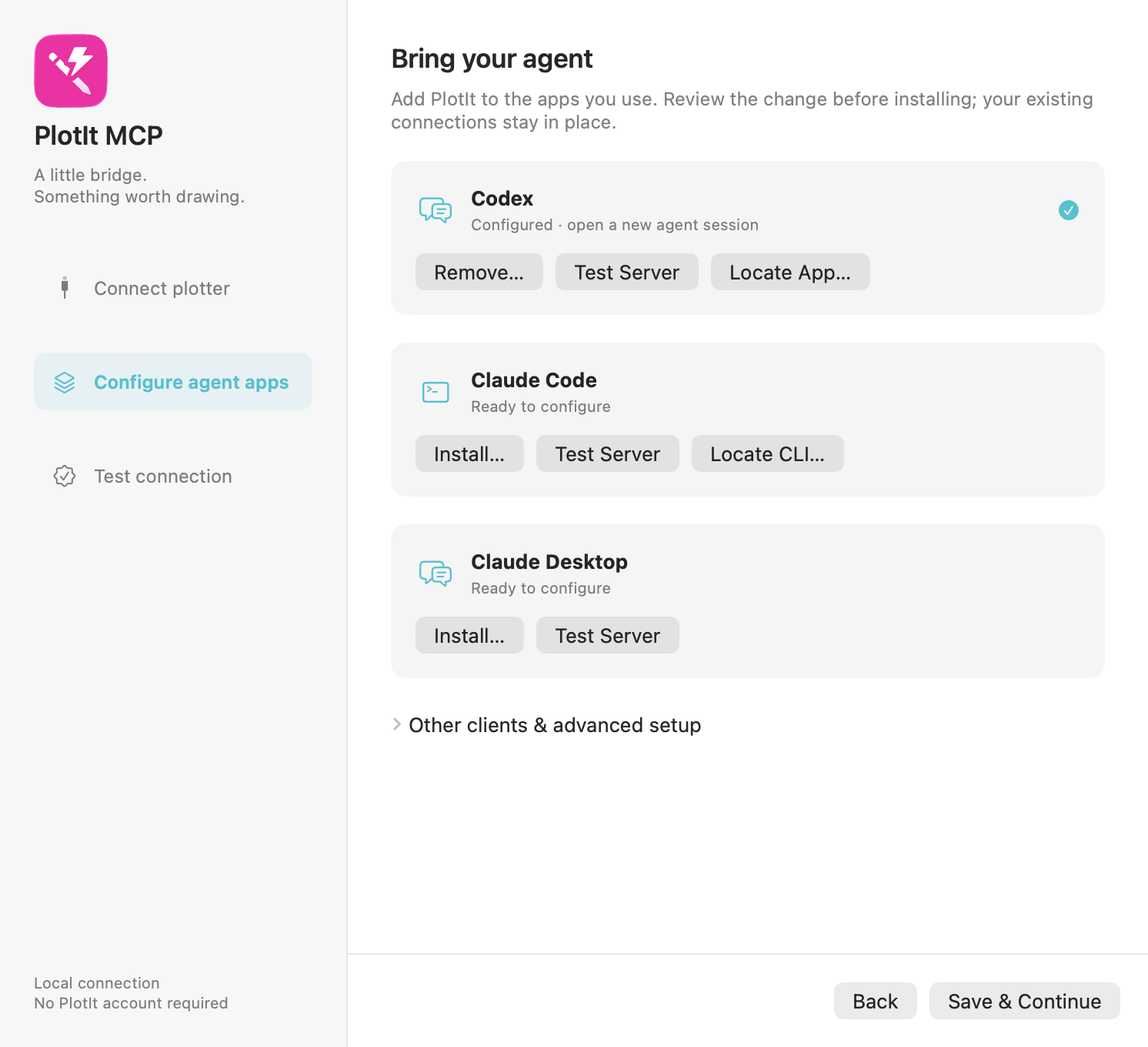
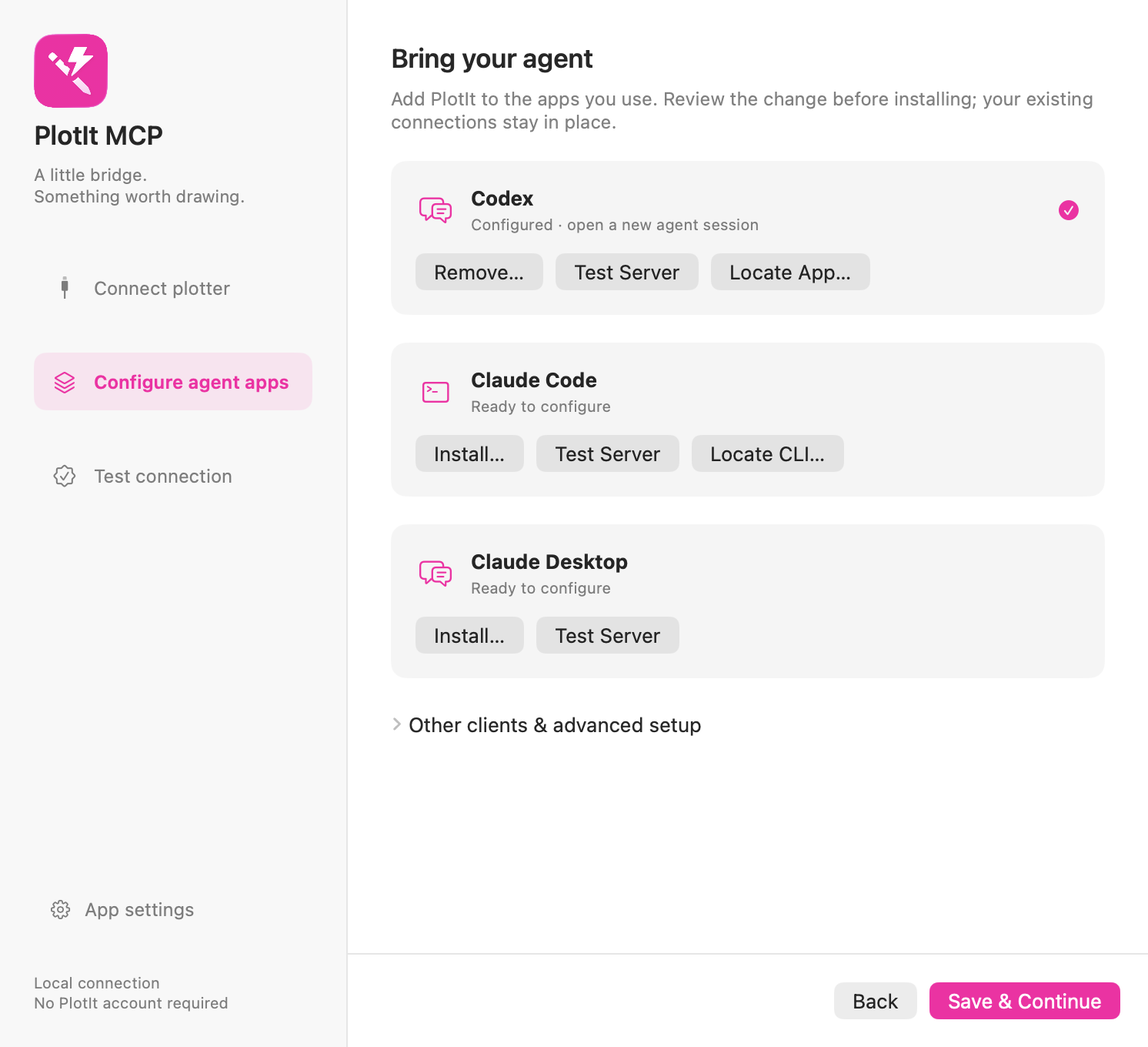
Refresh Mac screenshots and use native menu window corners

diff --git a/site/macos/index.html b/site/macos/index.html
@@ -9,8 +9,11 @@
 <div class="actions"><a id="mac-checksums" class="text-link" href="https://github.com/thierryc/Plot-It/releases/download/plotit-mcp-v0.1.0-alpha.1/SHA256SUMS.txt">Verify download checksums</a><a id="mac-notes" class="text-link" href="https://github.com/thierryc/Plot-It/releases/tag/plotit-mcp-v0.1.0-alpha.1">Release notes</a></div>
 <section aria-labelledby="mac-tour"><h2 id="mac-tour">Set it up here.<br>Follow it in the conversation.</h2><p>Choose your paper and pen settings in the Mac app, then let your agent help prepare the drawing. A live card keeps the preview, progress and controls together.</p>
 <div class="mac-showcase">
-<figure class="mac-shot"><div class="mac-shot-frame"><a href="%BASE_URL%macos/media/mac-setup.png" aria-label="Open the Mac setup screenshot at full size"><img src="%BASE_URL%macos/media/mac-setup.png" width="746" height="680" loading="lazy" alt="PlotIt MCP Mac setup window with machine and USB selection, an A4 paper format menu, orientation diagram and pen height controls"></a></div><figcaption><strong>A familiar Mac setup.</strong>Paper presets, custom dimensions and pen calibration. Native app capture with example settings; no plotter is connected.</figcaption></figure>
-<figure class="mac-shot"><div class="mac-shot-frame"><a href="%BASE_URL%macos/media/plot-progress.png" aria-label="Open the progress card screenshot at full size"><img src="%BASE_URL%macos/media/plot-progress.png" width="520" height="513" loading="lazy" alt="PlotIt progress card showing a drawing preview, 38 percent estimated progress, elapsed and remaining time, and Pause and Stop controls"></a></div><figcaption><strong>One card that stays up to date.</strong>Actual progress-card UI with simulated drawing data. Interactive cards depend on your agent client's MCP Apps support; tools and PNG previews remain available without them.</figcaption></figure>
+<figure class="mac-shot"><div class="mac-shot-frame"><a href="%BASE_URL%macos/media/mac-setup.png?v=11" aria-label="Open the Mac setup screenshot at full size"><img src="%BASE_URL%macos/media/mac-setup.png?v=11" width="746" height="680" loading="lazy" alt="Current PlotIt Mac setup with paper presets, pen heights, Advanced calibration and App settings in the sidebar"></a></div><figcaption><strong>Set up your plotter.</strong>Choose paper, calibrate the pen and connect. Native view with example settings; no plotter is connected.</figcaption></figure>
+<figure class="mac-shot" id="app-settings"><div class="mac-shot-frame"><a href="%BASE_URL%macos/media/app-settings.png" aria-label="Open the App settings screenshot at full size"><img src="%BASE_URL%macos/media/app-settings.png" width="746" height="680" loading="lazy" alt="PlotIt App settings with Check for Updates and the Automatic updates switch turned on"></a></div><figcaption><strong>Updates, on your terms.</strong>Automatic updates are on by default. Turn them off in Settings… → App settings; manual checks remain available.</figcaption></figure>
+<figure class="mac-shot mac-shot-menu" id="connection-menu"><div class="mac-shot-frame"><a href="%BASE_URL%macos/media/connection-menu.png" aria-label="Open the connected menu screenshot at full size"><img src="%BASE_URL%macos/media/connection-menu.png" width="336" height="310" loading="lazy" alt="PlotIt connection menu with the lightning pen icon, Disconnect control, completed drawing preview, Settings and compact More menu"></a></div><figcaption><strong>One connection control.</strong>Connect or disconnect from the menu bar. The lightning symbol appears while connected. Native view with example connection and drawing states.
+<details class="mac-menu-alternative"><summary>See the disconnected state</summary><a href="%BASE_URL%macos/media/connection-menu-disconnected.png" aria-label="Open the disconnected menu screenshot at full size"><img src="%BASE_URL%macos/media/connection-menu-disconnected.png" width="336" height="310" loading="lazy" alt="Disconnected PlotIt menu with a whole pen icon without lightning and a Connect control"></a></details></figcaption></figure>
+<figure class="mac-shot"><div class="mac-shot-frame"><a href="%BASE_URL%macos/media/plot-progress.png" aria-label="Open the progress card screenshot at full size"><img src="%BASE_URL%macos/media/plot-progress.png" width="520" height="513" loading="lazy" alt="PlotIt progress card showing a drawing preview, 38 percent estimated progress, elapsed and remaining time, and Pause and Stop controls"></a></div><figcaption><strong>Follow the drawing in your chat.</strong>Actual progress-card UI with simulated drawing data. Interactive cards depend on your agent client's MCP Apps support.</figcaption></figure>
 </div></section>
 <section id="connect"><h2>Connect the agent you use.</h2><p>Install PlotIt MCP in Applications and keep it open. In its menu bar, choose <strong>Set Up… → Configure agent apps</strong>. Choose your client below; you can prepare and simulate drawings before connecting a plotter.</p>
 <div class="agent-guides">
@@ -22,7 +25,7 @@
 <h3>Try your first prompt.</h3><blockquote class="agent-prompt"><p>Use PlotIt to check my setup, list the stroke fonts, and prepare a small hello-world drawing. Show me the preview and simulate it before starting. When I ask you to plot, show the live progress card.</p></blockquote>
 <p class="fine">Ask the agent to show PlotIt's setup card if you want help with configuration. Secure the paper and physically position the carriage before confirming the origin. A connection or a completed simulation never starts a physical drawing.</p></section>
 <section><h2>Your agent. Your plotter. This Mac.</h2><p>PlotIt MCP is a native macOS 14+ menu-bar app with its own bundled runtime. It does not require a separate Node installation or a PlotIt account. The universal download runs on Apple Silicon and Intel Macs, is Developer ID signed, and is notarized by Apple. Open the DMG, drag PlotIt MCP to Applications, then open the app to set up your plotter.</p><p>Choose your machine, paper preset or custom size, pen heights and USB device in the native app or an interactive setup card. The agent can help configure and connect your plotter when requested.</p></section>
-<section><h2>See what is happening.</h2><p>A live conversation card shows the full drawing preview, estimated progress, elapsed and remaining time, and Pause, Resume and Stop controls. Pen changes show clear instructions. Clients that do not support interactive MCP Apps retain useful tools, text and PNG previews.</p><p>Agent control becomes available when the connected plotter has an established origin and the Mac companion is present. Turn it Off at any time to block new starts and agent resumes. Becoming ready never starts a drawing.</p></section>
+<section><h2>See what is happening.</h2><p>A live conversation card shows the full drawing preview, estimated progress, elapsed and remaining time, and Pause, Resume and Stop controls. Pen changes show clear instructions. Clients that do not support interactive MCP Apps retain useful tools, text and PNG previews.</p><p>Agent control becomes available when the connected plotter has an established origin and the Mac companion is present. Disconnect from the menu to release the plotter when work has settled. Becoming ready never starts a drawing.</p></section>
 <section><h2>Keep the editor you already use.</h2><p>The browser editor remains available without installing the Mac app. Use it to edit and simulate drawings, then exchange SVG files with the companion workflow. These are separate workspaces; installing or removing the Mac app does not alter the web app.</p><div class="actions"><a class="button" href="%BASE_URL%app/">Open the web editor</a><a class="text-link" href="%BASE_URL%docs/macos/">Install, connect and recover →</a></div></section>
 <section><h2>An experimental first release.</h2><p>Hardware profiles require testing on the actual machine. Simulation does not establish AxiDraw, NextDraw or other plotter compatibility. Start with a small preview and pen calibration. Carriage positioning, securing paper and loading pens remain physical tasks.</p><p>Storage is local. Your chosen agent receives the tool results and previews you request under that agent's own privacy policy. The current integration uses local clients; a remote ChatGPT web bridge is not included.</p></section>
 </div><script type="module" src="macos.ts"></script></main><footer data-site-footer>

diff --git a/site/docs/macos/index.html b/site/docs/macos/index.html
@@ -5,7 +5,7 @@
 <section id="install"><h2>Install the Mac app</h2><p>Download the signed and notarized Universal alpha from the <a href="%BASE_URL%macos/">Mac companion page</a>. The same download runs on Apple Silicon and Intel Macs with macOS 14 or later. Open the DMG and drag PlotIt MCP.app into Applications before configuring agents.</p><p>Open the app and find its menu-bar icon. Development packages are ad-hoc signed and are distinct from the signed, notarized public release. Verify a public download against its SHA-256 checksum. Keep normal macOS security protections enabled.</p></section>
 <section id="setup"><h2>Set up the plotter</h2><ol><li>Open Set Up. Choose the machine, USB device, paper format and pen heights. Custom dimensions are in millimetres. Save &amp; Continue preserves changes.</li><li>Connect the plotter. Test pen up/down using the saved heights. Position the carriage at the intended drawing origin and secure the paper, then capture the current position as origin.</li><li>Configure your agent app through the reviewed installation action. Start a new agent session; restart Claude Desktop if needed. Run the server test and copy the first prompt.</li></ol><p>You can also ask the agent to open PlotIt's setup card. It uses the same saved settings and hardware operations. Capturing origin never homes the machine, and the agent must not infer physical placement from an image. Setup controls are unavailable during an active plot.</p><p>Use Connect / Disconnect to control the connection. The toolbar icon gains a lightning bolt when connected. Saved configuration, an established physical origin and the native app open are required before drawing; there is no separate agent-permission switch.</p></section>
 <section id="agents"><h2>Connect your agent</h2><p>Keep PlotIt MCP open on the same Mac as your agent. From the menu bar choose <strong>Set Up…</strong>, then <strong>Configure agent apps</strong>. Each <strong>Install…</strong> action shows the destination and launch command for review. Existing files are backed up, and a conflicting PlotIt entry requires an explicit replacement.</p>
-<figure class="mac-shot"><div class="mac-shot-frame"><a href="%BASE_URL%macos/media/agent-connections.png" aria-label="Open the agent connections screenshot at full size"><img src="%BASE_URL%macos/media/agent-connections.png" width="746" height="680" loading="lazy" alt="Configure agent apps in PlotIt MCP, with separate Codex, Claude Code and Claude Desktop rows and Install and Test Server actions"></a></div><figcaption>The native connection screen, rendered with example configuration states. “Configured” means an entry is saved; “Agent connected” means a client has loaded the server.</figcaption></figure>
+<figure class="mac-shot"><div class="mac-shot-frame"><a href="%BASE_URL%macos/media/agent-connections.png?v=11" aria-label="Open the agent connections screenshot at full size"><img src="%BASE_URL%macos/media/agent-connections.png?v=11" width="746" height="680" loading="lazy" alt="Configure agent apps in PlotIt MCP, with separate Codex, Claude Code and Claude Desktop rows and Install and Test Server actions"></a></div><figcaption>The native connection screen, rendered with example configuration states. “Configured” means an entry is saved; “Agent connected” means a client has loaded the server.</figcaption></figure>
 <p>After installing a connection, choose <strong>Test connection → Run Server Test</strong>. A successful test confirms MCP initialization and tool discovery. To check the agent itself, start a fresh client session and use the first prompt below. No USB connection is needed to prepare artwork or run a simulation.</p></section>
 <section id="codex"><h2>Connect Codex</h2><ol><li>In PlotIt's <strong>Configure agent apps</strong> step, choose <strong>Install…</strong> beside <strong>Codex</strong>. Review and confirm the change.</li><li>If Codex isn't detected, choose <strong>Locate App…</strong> and select your local Codex app or executable. For a custom configuration location, expand <strong>Other clients &amp; advanced setup → Choose Codex Configuration Folder…</strong>.</li><li>Start a new local Codex chat or CLI session. Keep PlotIt MCP open, then paste the first prompt below.</li><li>Check <strong>Agent connected</strong> in PlotIt. In the Codex CLI, <code>/mcp</code> shows active servers; <code>codex mcp list</code> lists saved connections.</li></ol>
 <details class="manual-setup"><summary>Manual Codex configuration</summary><p>Use this instead of the app's Install action. Add one PlotIt table to <code>~/.codex/config.toml</code>, or the <code>config.toml</code> in your chosen <code>CODEX_HOME</code>. Keep your existing configuration and avoid duplicate PlotIt tables.</p><pre><code>[mcp_servers.plotit]

diff --git a/macos/Tests/PlotItAppTests/UISnapshotTests.swift b/macos/Tests/PlotItAppTests/UISnapshotTests.swift
@@ -7,6 +7,7 @@ final class UISnapshotTests: XCTestCase {
     @MainActor
     func testNativeViewsRenderAtTheirSupportedSizes() throws {
         _ = NSApplication.shared
+        if ProcessInfo.processInfo.environment["PLOTIT_ACTIVE_CAPTURES"] == "1" { NSApp.setActivationPolicy(.regular) }
         let model = CompanionModel(); model.isPreview = true; model.serviceAvailable = true
         model.status = CompanionStatus(version: "0.1.0", configured: false, config: Machine(), armed: false, agents: [], preparing: false)
         model.status?.paperPresets = [PaperPreset(name: "A4 portrait", width: 210, height: 297), PaperPreset(name: "US Letter portrait", width: 215.9, height: 279.4)]
@@ -17,10 +18,10 @@ final class UISnapshotTests: XCTestCase {
             AgentInstallation(id: "claude-desktop", path: "~/Library/Application Support/Claude/claude_desktop_config.json", configured: false)
         ]
         model.entry = ServerEntry(command: "/Applications/PlotIt MCP.app/Contents/MacOS/plotit-mcp", args: [])
-        for step in 0...2 {
-            try capture(SetupWindow(model: model, initialStep: step), name: "setup-\(step)", size: NSSize(width: 746, height: 680))
-        }
         let updater = AppUpdater(model: model)
+        for step in 0...2 {
+            try capture(SetupWindow(model: model, updater: updater, initialStep: step), name: "setup-\(step)", size: NSSize(width: 746, height: 680))
+        }
         try capture(SetupWindow(model: model, updater: updater, initialStep: 3), name: "app-settings", size: NSSize(width: 746, height: 680))
         try capture(MenuPanel(model: model), name: "menu", size: NSSize(width: 336, height: 0))
         model.status?.config.widthMm = 222
@@ -43,13 +44,34 @@ final class UISnapshotTests: XCTestCase {
     }
     @MainActor
     private func capture<Content: View>(_ content: Content, name: String, size: NSSize, colorScheme: ColorScheme = .light) throws {
-        let view = NSHostingView(rootView: content.environment(\.colorScheme, colorScheme).background(colorScheme == .dark ? Color.black : Color.white))
+        let screenCapture = ProcessInfo.processInfo.environment["PLOTIT_SCREENSHOT_HELPER"] != nil
+        let view = NSHostingView(rootView: content.environment(\.colorScheme, colorScheme)
+            .transformEnvironment(\.controlActiveState) { if screenCapture { $0 = .active } }
+            .background(colorScheme == .dark ? Color.black : Color.white))
         let size = NSSize(width: size.width, height: size.height == 0 ? ceil(view.fittingSize.height) : size.height)
-        let window = NSWindow(contentRect: NSRect(origin: .zero, size: size), styleMask: [.borderless], backing: .buffered, defer: false)
+        let window = CaptureWindow(contentRect: NSRect(origin: .zero, size: size), styleMask: [.borderless], backing: .buffered, defer: false)
         window.isReleasedWhenClosed = false
         window.appearance = NSAppearance(named: colorScheme == .dark ? .darkAqua : .aqua)
         window.contentView = view; view.frame = NSRect(origin: .zero, size: size)
+        if ProcessInfo.processInfo.environment["PLOTIT_ACTIVE_CAPTURES"] == "1" {
+            window.makeKeyAndOrderFront(nil)
+            NSApp.activate(ignoringOtherApps: true)
+            RunLoop.main.run(until: Date().addingTimeInterval(0.2))
+        }
         view.layoutSubtreeIfNeeded(); view.displayIfNeeded()
+        if let helper = ProcessInfo.processInfo.environment["PLOTIT_SCREENSHOT_HELPER"],
+           let path = ProcessInfo.processInfo.environment["PLOTIT_CAPTURE_DIR"] {
+            try FileManager.default.createDirectory(atPath: path, withIntermediateDirectories: true)
+            let destination = URL(fileURLWithPath: path).appendingPathComponent("\(name).png")
+            let process = Process()
+            process.executableURL = URL(fileURLWithPath: "/usr/bin/python3")
+            process.arguments = [helper, "--window-id", String(window.windowNumber), "--path", destination.path]
+            try process.run(); process.waitUntilExit()
+            XCTAssertEqual(process.terminationStatus, 0)
+            XCTAssertGreaterThan(try Data(contentsOf: destination).count, 1000)
+            window.close()
+            return
+        }
         guard let bitmap = view.bitmapImageRepForCachingDisplay(in: view.bounds) else { return XCTFail("Cannot render \(name)") }
         view.cacheDisplay(in: view.bounds, to: bitmap)
         let flattened = NSImage(size: size)
@@ -67,4 +89,9 @@ final class UISnapshotTests: XCTestCase {
         }
         window.close()
     }
+}
+
+private final class CaptureWindow: NSWindow {
+    override var canBecomeKey: Bool { true }
+    override var canBecomeMain: Bool { true }
 }

diff --git a/macos/Sources/PlotItApp/AppUpdater.swift b/macos/Sources/PlotItApp/AppUpdater.swift
@@ -20,6 +20,7 @@ final class AppUpdater: NSObject, SPUUpdaterDelegate, @preconcurrency SPUStandar
     var automaticUpdates: Bool { automaticChecks }
     var installationRequested = false
     var enabled: Bool { controller != nil }
+    var isPreview: Bool { model.isPreview }
     var blocker: String? { model.updateBlocker }
 
     init(model: CompanionModel) { self.model = model; super.init() }
@@ -111,13 +112,13 @@ struct UpdateControls: View {
         VStack(alignment: .leading, spacing: 10) {
             if let version = updater.readyVersion { Text("Update available · \(version)").font(.subheadline.weight(.medium)) }
             Button(updater.readyVersion == nil ? "Check for Updates…" : "Review Update & Restart…") { updater.check() }
-                .disabled(!updater.enabled || (!updater.canCheck && !updater.installationRequested))
+                .disabled(!updater.isPreview && (!updater.enabled || (!updater.canCheck && !updater.installationRequested)))
             if let message = updater.message { Text(message).font(.caption).foregroundStyle(.secondary) }
             if updater.readyVersion != nil, let blocker = updater.blocker { Text(blocker).font(.caption).foregroundStyle(.secondary) }
             Toggle("Automatic updates", isOn: Binding(get: { updater.automaticUpdates }, set: updater.setAutomaticUpdates))
                 .toggleStyle(.switch)
             Text(updater.automaticUpdates ? "Checks daily for signed GitHub releases. Updates wait for drawing, calibration and unsaved settings." : "Automatic checks and downloads are off. You can still check for updates above.")
                 .font(.caption).foregroundStyle(.secondary)
-        }.disabled(!updater.enabled)
+        }.disabled(!updater.enabled && !updater.isPreview)
     }
 }

diff --git a/site/styles.css b/site/styles.css
@@ -87,10 +87,14 @@ figcaption { font:11px ui-monospace,monospace; color:var(--quiet); text-align:ce
 .mac-app-identity { display:flex; align-items:center; gap:22px; margin-bottom:28px; }
 .mac-app-identity img { display:block; width:88px; height:88px; flex:none; }
 .mac-app-identity .eyebrow { margin:0; max-width:270px; line-height:1.8; }
-.mac-showcase { display:grid; grid-template-columns:minmax(0,1.35fr) minmax(0,1fr); gap:28px; align-items:start; margin:34px 0; }
+.mac-showcase { display:grid; grid-template-columns:repeat(2,minmax(0,1fr)); gap:36px 28px; align-items:start; margin:34px 0; }
 .mac-shot { margin:0; min-width:0; }
 .mac-shot-frame { padding:16px; border:1px solid var(--line); border-radius:16px; background:var(--code-background); }
 .mac-shot img { display:block; width:100%; height:auto; border-radius:8px; border:1px solid #e4e6e5; background:#fff; }
+.mac-shot-menu .mac-shot-frame > a { display:block; max-width:336px; margin-inline:auto; }
+.mac-menu-alternative { margin-top:12px; }
+.mac-menu-alternative summary { cursor:pointer; color:var(--ink); font-size:14px; }
+.mac-menu-alternative img { max-width:336px; margin-top:12px; }
 .mac-shot figcaption { font-family:inherit; font-size:12px; line-height:1.7; text-align:left; margin:14px 2px 0; }
 .mac-shot figcaption strong { display:block; color:var(--ink); font-size:14px; font-weight:550; margin-bottom:4px; }
 .agent-guides { display:grid; grid-template-columns:repeat(3,minmax(0,1fr)); gap:28px; margin:30px 0; }

diff --git a/macos/Sources/PlotItApp/MenuPanel.swift b/macos/Sources/PlotItApp/MenuPanel.swift
@@ -51,9 +51,6 @@ struct MenuPanel: View {
                 }.controlSize(.regular)
             }.padding(18).frame(width: 336)
         }
-        .background(.regularMaterial, in: .rect(cornerRadius: 20))
-        .clipShape(.rect(cornerRadius: 20))
-        .modifier(MenuPanelWindowBackground())
     }
 
     private func showSetup() {
@@ -93,13 +90,6 @@ struct MenuPanelMoreButton: View {
         .frame(width: 32, height: 32)
         .accessibilityLabel("More")
         .help("About, updates and Quit")
-    }
-}
-
-private struct MenuPanelWindowBackground: ViewModifier {
-    func body(content: Content) -> some View {
-        if #available(macOS 15, *) { content.containerBackground(.clear, for: .window) }
-        else { content }
     }
 }
 

diff --git a/site/macos/media/README.md b/site/macos/media/README.md
@@ -1,11 +1,13 @@
 # Mac website imagery
 
-The four public images live in `public/macos/media/`. HTML uses `%BASE_URL%macos/media/` for both image sources and full-size links, so they share stable URLs in the production build.
+The public images live in `public/macos/media/`. HTML uses `%BASE_URL%macos/media/` for both image sources and full-size links, so they share stable URLs in the production build.
 
 - `app-icon.png`: the designer-supplied 512-pixel magenta Plot-It icon, shared with `macos/Sources/PlotItApp/Resources/PlotItAppIcon.png` and `public/icon.png`. The source glyph's subtraction masks are already resolved in the native icon assets; do not replace this with a raw Glyphs SVG export.
 - `mac-setup.png` and `agent-connections.png`: native SwiftUI views rendered by `UISnapshotTests`, using the app's preview model and example configuration. The capture does not start a service, connect USB, or change an agent's configuration.
+- `connection-menu.png` and `connection-menu-disconnected.png`: current connection-menu content with example completed-job and connected/disconnected states, including the connection-aware pen symbols and compact More button. The native MenuBarExtra window supplies the real app’s material and corner clipping; these content captures are framed by the website.
+- `app-settings.png`: App settings with Automatic updates on. Preview controls display normally but no updater is started and no update preferences are written.
 - `plot-progress.png`: the bundled MCP Apps progress card captured inside `scripts/preview-plot-progress.mjs`, using simulated drawing data. This is a component preview, not an assertion that a particular agent client renders cards or that a physical plot has completed.
 
-Native captures can be regenerated with `PLOTIT_CAPTURE_DIR=/tmp/plotit-site-media swift test --package-path macos --filter UISnapshotTests`. Copy `setup-0.png` and `setup-1.png` to the names above. The website captions disclose example/simulated data. Retain readable controls, alt text, and the original aspect ratios.
+Native captures can be regenerated with `PLOTIT_CAPTURE_DIR=/tmp/plotit-site-media swift test --package-path macos --filter UISnapshotTests`. For foreground glass/control rendering, also set `PLOTIT_ACTIVE_CAPTURES=1` and `PLOTIT_SCREENSHOT_HELPER` to the screenshot skill’s `scripts/take_screenshot.py` after its screen-recording permission preflight. This captures only the isolated preview windows; regular tests remain offscreen. The active-control override is applied only to this Window Server capture path, since forcing it in `cacheDisplay` omits GPU-rendered controls. Copy `setup-0.png` to `mac-setup.png`, `setup-1.png` to `agent-connections.png`, `app-settings.png` to the same name, `menu-connected.png` to `connection-menu.png` and `menu-disconnected.png` to `connection-menu-disconnected.png`. Set `PLOTIT_PREVIEW_PATH` to a publishable drawing preview to include it in the menu captures. Use the current release build as the query version for replaced assets to refresh cached website images. The website captions disclose example/simulated data. Retain readable controls, alt text, and the original aspect ratios.
 
 For card screenshots, capture the iframe using document coordinates (its viewport rectangle plus page scroll offsets), after the progress-bar transition settles. Exclude the preview host controls. Screenshot bytes may be JPEG; explicitly convert to PNG before saving a `.png` asset and inspect the resulting image.

diff --git a/docs/releases/plotit-mcp-0.1.0.md b/docs/releases/plotit-mcp-0.1.0.md
@@ -4,6 +4,10 @@ PlotIt MCP is a separate macOS 14+ menu-bar application for using a local USB pe
 
 The first public prerelease is `plotit-mcp-v0.1.0-alpha.1`, app version 0.1.0 build 5. Its universal package includes both Apple Silicon and Intel runtimes, is Developer ID signed and notarized, and includes its corresponding source and notices.
 
+## Alpha 4 · build 11
+
+`plotit-mcp-v0.1.0-alpha.4` removes the menu's extra rounded material layer so the native window owns its background and corner radius, without a second surface showing beneath it. The website now shows the current setup, connection menu, App settings and agent configuration screens, alongside the conversation progress card.
+
 ## Alpha 3 · build 10
 
 `plotit-mcp-v0.1.0-alpha.3` simplifies the compact menu with one Connect / Disconnect toggle. A whole pen without lightning indicates disconnection; the lightning bolt appears when USB is connected, with a separate plotting variant. The menu removes repeated status lines and the agent-permission switch. Settings, help, updates and Quit remain available, with native Liquid Glass controls on macOS 26 and native bordered controls on earlier versions. The panel has rounded corners and a compact circular More menu. Clicking anywhere on Advanced calibration expands or collapses its settings. App settings provides one Automatic updates switch, enabled by default for checks and downloads; an explicit disabled choice persists. Manual update checks remain available. Existing saved agent-control Off preferences no longer gate agent use; settings, origin, fresh native presence and motion/update guards still apply.
